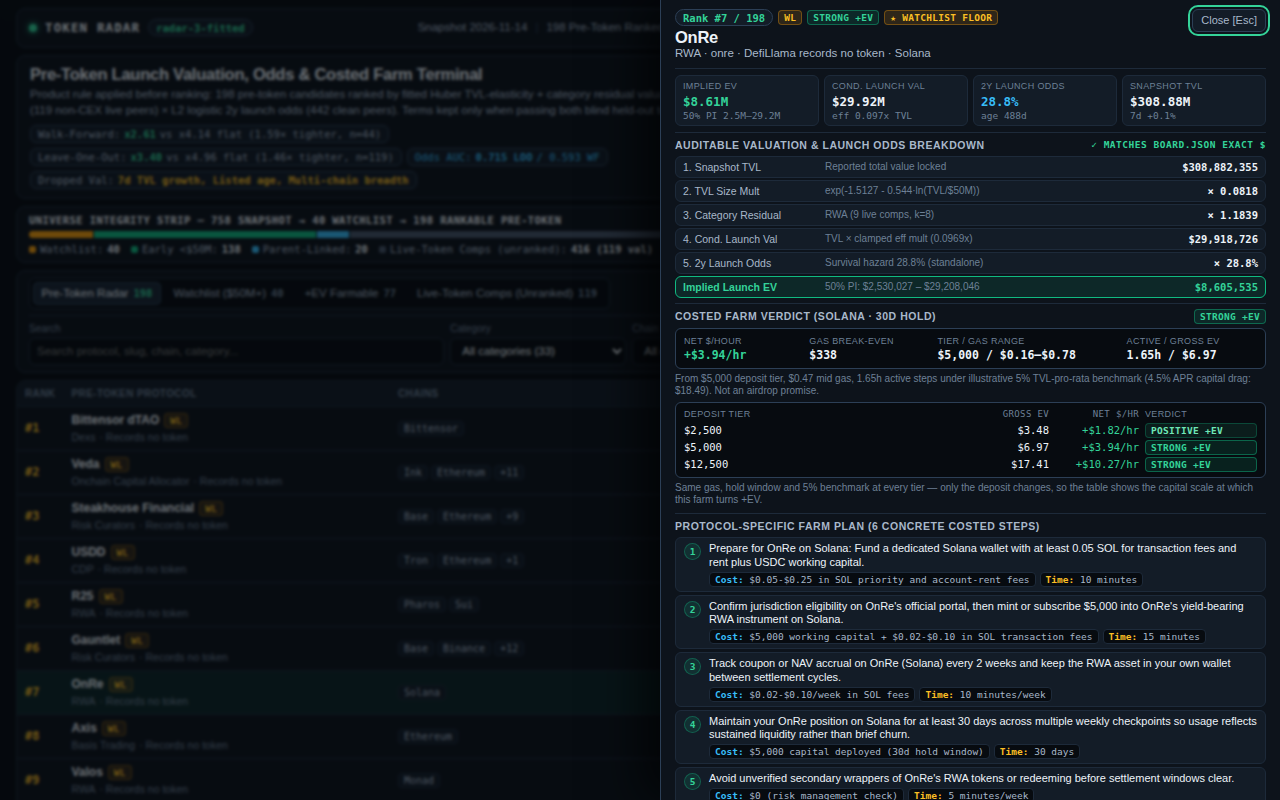
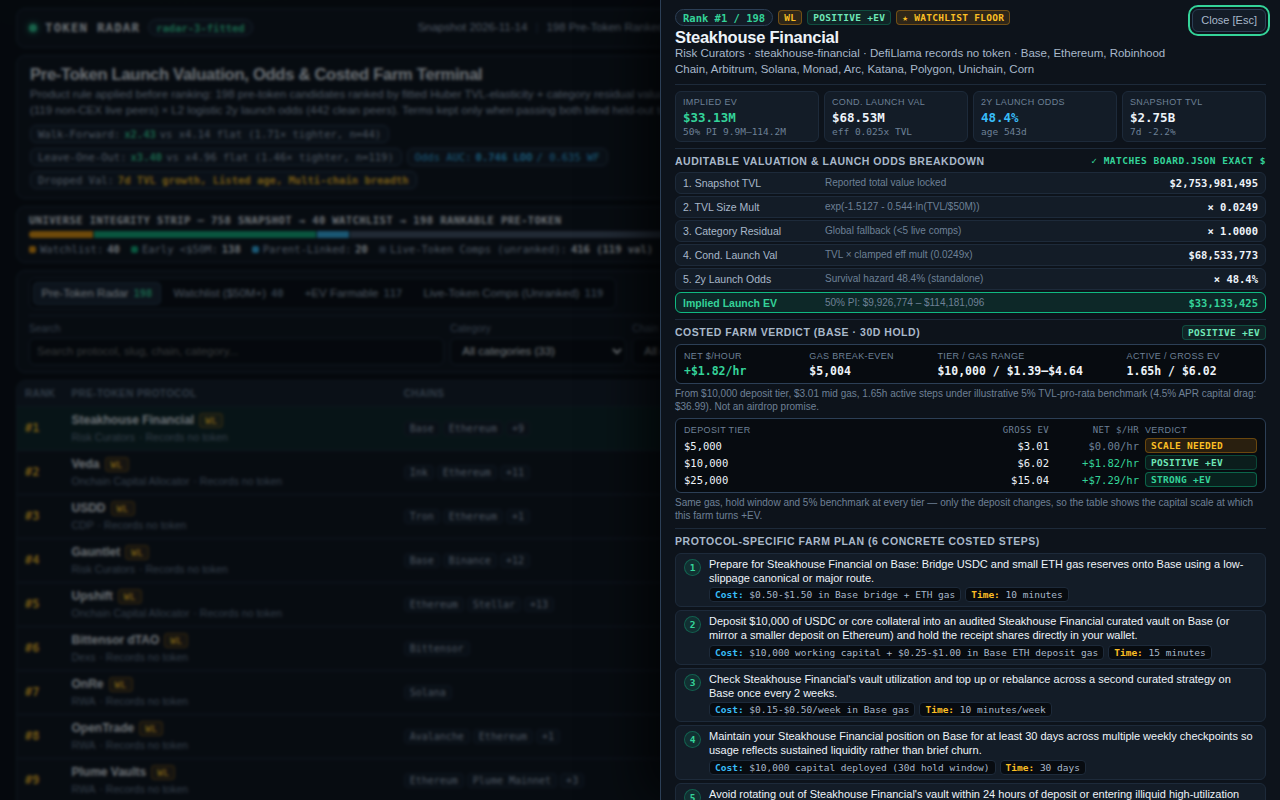
feat(dashboard): parity + re-rendered screenshots after A+B+C (final validation)

diff --git a/dashboard/app.js b/dashboard/app.js
@@ -26,7 +26,7 @@
   const fPct = (n) => (n == null || !isFinite(n) ? 'n/a' : `${n > 0 ? '+' : ''}${n.toFixed(1)}%`);
   const fPr = (p) => (p == null || !isFinite(p) ? 'n/a' : `${(p * 100).toFixed(1)}%`);
   const fAge = (d) => (d == null ? 'unlisted' : d >= 365 ? `${(d / 365).toFixed(1)}y` : `${Math.max(0, Math.round(d))}d`);
-  const fHr = (n) => `${n >= 0 ? '+' : '-'}$${Math.abs(n).toFixed(2)}/hr`;
+  const fHr = (n) => `${n > 0 ? '+' : n < 0 ? '-' : ''}$${Math.abs(n).toFixed(2)}/hr`;
   const fmtExp = () => `exp(${FIT.val_intercept} ${FIT.val_tvl_slope < 0 ? '-' : '+'} ${Math.abs(FIT.val_tvl_slope)}·ln(TVL/$50M))`;
 
   const dirty = () => Math.abs(S.sbTvl - FIT.val_tvl_slope) > 1e-4 || Math.abs(S.sbCat - 1) > 1e-4 || Math.abs(S.sbHor - FIT.horizon_days) > 1 || Math.abs(S.sbPar - FIT.parent_tokenless_prob) > 1e-4;
@@ -173,7 +173,7 @@
         kpi('Ranked Board', `${INT.rankable_total} rows`, 'em', `${INT.watchlist} WL + ${INT.early_below_floor} early + ${INT.parent_above_floor} sub`),
         kpi('Walk-Forward', `x${HO.val_wf_med_x.toFixed(2)}`, 'em', `${HO.val_wf_lift.toFixed(2)}× lift · R² +${HO.val_wf_r2.toFixed(3)}`),
         kpi('Leave-One-Out', `x${HO.val_loo_med_x.toFixed(2)}`, 'cy', `${HO.val_loo_lift.toFixed(2)}× lift · R² +${HO.val_loo_r2.toFixed(3)}`),
-        kpi('Rank #1 EV', top ? fUsd(top.implied_value_usd) : 'n/a', 'em', top ? `${top.name} (${fPr(top.launch_odds)} odds)` : ''),
+        kpi('Rank #1 EV', top ? fUsd(top.implied_value_usd) : 'n/a', 'em', top ? `${top.name} · ${fPr(top.launch_odds)}` : ''),
         kpi('Farm +EV Rows', `${strong + pos} / ${INT.rankable_total}`, '', `${strong} Strong · ${pos} Positive`),
       ),
     );
@@ -293,7 +293,7 @@
         E('td', null, E('div', { class: 'proto-cell' }, E('div', { class: 'proto-top' }, E('span', { class: 'proto-name', text: r.name }), cBadge(r)), E('div', { class: 'proto-sub' }, E('span', { text: r.category || 'Other' }), E('span', { text: '· Records no token' })))),
         chCell, E('td', { class: 'num', text: fUsd(r.tvl_usd) }), E('td', { class: `num ${gCls}`, text: fPct(r.change_7d) }),
         E('td', { class: 'num', text: fPr(r.launch_odds) }),
-        E('td', null, E('div', { class: 'farm-cell' }, E('span', { class: `farm-rate ${f.net_per_hour > 0 ? 'pos' : 'neg'}`, text: fHr(f.net_per_hour) }), vBadge(f.verdict))),
+        E('td', null, E('div', { class: 'farm-cell' }, E('span', { class: `farm-rate ${f.net_per_hour > 0 ? 'pos' : f.net_per_hour < 0 ? 'neg' : 'flat'}`, text: fHr(f.net_per_hour) }), vBadge(f.verdict))),
         E('td', null, E('div', { class: 'val-cell' }, E('div', { class: 'val-top' }, E('div', { class: 'val-bar', 'aria-hidden': 'true' }, E('i', { style: `width:${pct}%` })), E('span', { class: 'val-num', text: fUsd(r.implied_value_usd) })), E('span', { class: 'val-range', text: `50% PI $${fSh(r.range_low_usd)}–$${fSh(r.range_high_usd)}` }))),
       );
     }));
@@ -389,7 +389,7 @@
       E('section', { class: 'drawer-sec' },
         E('h3', null, E('span', { text: `Costed Farm Verdict (${f.primary_chain} · ${f.hold_days}d Hold)` }), vBadge(f.verdict)),
         E('div', { class: 'verdict-box' },
-          E('div', { class: 'vb-cell' }, E('span', { text: 'Net $/Hour' }), E('b', { class: f.net_per_hour > 0 ? 'pos' : 'neg', text: fHr(f.net_per_hour) })),
+          E('div', { class: 'vb-cell' }, E('span', { text: 'Net $/Hour' }), E('b', { class: f.net_per_hour > 0 ? 'pos' : f.net_per_hour < 0 ? 'neg' : 'flat', text: fHr(f.net_per_hour) })),
           E('div', { class: 'vb-cell' }, E('span', { text: 'Gas Break-Even' }), E('b', { text: fEx(f.breakeven_deposit_usd) })),
           E('div', { class: 'vb-cell' }, E('span', { text: 'Tier / Gas Range' }), E('b', { text: `$${f.deposit_usd.toLocaleString('en-US')} / $${f.gas_low_usd.toFixed(2)}–$${f.gas_high_usd.toFixed(2)}` })),
           E('div', { class: 'vb-cell' }, E('span', { text: 'Active / Gross EV' }), E('b', { text: `${f.active_hours.toFixed(2)}h / $${f.gross_ev_usd.toFixed(2)}` })),
@@ -397,7 +397,7 @@
         E('p', { class: 'verdict-note', text: `From $${f.deposit_usd.toLocaleString('en-US')} deposit tier, $${f.gas_mid_usd.toFixed(2)} mid gas, ${f.active_hours.toFixed(2)}h active steps under illustrative 5% TVL-pro-rata benchmark (4.5% APR capital drag: $${f.capital_drag_usd.toFixed(2)}). Not an airdrop promise.` }),
         E('div', { class: 'tier-table' },
           E('div', { class: 'tier-head' }, E('span', { text: 'Deposit tier' }), E('span', { class: 'num', text: 'Gross EV' }), E('span', { class: 'num', text: 'Net $/hr' }), E('span', { text: 'Verdict' })),
-          (f.tiers || []).map((t) => E('div', { class: 'tier-row' }, E('span', { text: `$${t.deposit_usd.toLocaleString('en-US')}` }), E('span', { class: 'num', text: `$${t.gross_ev_usd.toFixed(2)}` }), E('span', { class: `num ${t.net_per_hour > 0 ? 'pos' : 'neg'}`, text: fHr(t.net_per_hour) }), vBadge(t.verdict))),
+          (f.tiers || []).map((t) => E('div', { class: 'tier-row' }, E('span', { text: `$${t.deposit_usd.toLocaleString('en-US')}` }), E('span', { class: 'num', text: `$${t.gross_ev_usd.toFixed(2)}` }), E('span', { class: `num ${t.net_per_hour > 0 ? 'pos' : t.net_per_hour < 0 ? 'neg' : 'flat'}`, text: fHr(t.net_per_hour) }), vBadge(t.verdict))),
         ),
         E('p', { class: 'verdict-note', text: 'Same gas, hold window and 5% benchmark at every tier — only the deposit changes, so the table shows the capital scale at which this farm turns +EV.' }),
       ),

diff --git a/STATE.md b/STATE.md
@@ -187,3 +187,30 @@ Tally vs hypothetical top-10 composites: **3 wins / 2 losses** (game scores ~0.3
   - Parity (`dashboard/0-model.js` vs `board.json`/`data.js`): `0` value diffs, `0` breakdown diffs, `0` farm-verdict diffs across all 198 rows, `0` tier diffs across all 594 tier cells, `0` step diffs.
   - Artifacts & determinism: `data.js` `594,247 B`, `dashboard/` `60,721 B` (`<64 KiB`, `0` `http(s)://`), `dossier.json` `1,157,179 B` (`61,062 B` text, `3` images, exact `buildDossier` byte match); 2-run `diff -r` byte-identical PASS.
 - Slice 4 (dashboard parity + screenshot re-render + final validation) pending; not pushed.
+
+## Session 8 (Finisher Slice 4 — Dashboard Parity, Re-Rendered 1280×800 Screenshots & Final Validation, 2026-11-26)
+- **Dashboard parity audit & fixes:**
+  - Audited all 4 files in `dashboard/` (`0-model.js`, `app.js`, `app.css`, `index.html`): `0` remaining stale hardcoded numbers from the old model (`2.61`, `1.59`, `0.715`, `0.593`, `0.2294`, `0.2113`, `0.29`, `3.39`, `n>=3`, `k=8` valuation, `$50,000`/`50k` gas rule, `log1p`), `0` `http(s)://` references. `odds_cat_k: 16`, valuation `n>=5, k=12`, and dropped 7d growth untouched.
+  - Applied two display-parity fixes in `dashboard/app.js`: (1) zero-valued `net_per_hour` (e.g., `#1 steakhouse-financial` `$5,000` deposit tier at `$0.00/hr`) formats as neutral `$0.00/hr` (`flat`) instead of red `+$0.00/hr`; (2) Rank #1 EV KPI subtitle shortened to `${name} · ${odds}` so `Steakhouse Financial · 48.4%` renders with zero ellipsis truncation.
+  - Verified exact parity across all `198` rows (`594` tier cells) between `board.json`, `data.js`, and `dashboard/0-model.js`: `0` value diffs, `0` breakdown diffs, `0` farm-verdict diffs, `0` tier diffs, `0` step diffs.
+- **Re-rendered `1280×800` screenshots (headless Chromium `chromium-1255` from live built output; all 3 visually inspected — zero overlap/clipping, byte-equal numbers to `board.json`/`data.js`):**
+  - `screenshots/1-board.png`: `1280×800`, `239,473 B` (`233.9 KiB`) — Cover + Held-Out strip (`WF x2.43` / `1.71×`, `LOO x3.40` / `1.46×`, `Odds AUC 0.746 LOO / 0.635 WF`) + KPI cards (`Rank #1 EV $33.13M Steakhouse Financial · 48.4%`, `Farm +EV Rows 117 / 198: 59 Strong · 58 Positive`) + 758-protocol Integrity Strip + Top 9 ranked rows.
+  - `screenshots/2-detail.png`: `1280×800`, `346,477 B` (`338.4 KiB`) — New `#1 Steakhouse Financial` (`WL`, `Positive +EV`, `$33,133,425`, `✓ Matches board.json exact $`, `Global fallback (<5 live comps)`, `48.4%` 2y odds, full 3-tier progression `$5,000 Scale Needed` / `$10,000 Positive +EV` / `$25,000 Strong +EV`, 6 costed steps).
+  - `screenshots/3-filtered.png`: `1280×800`, `246,028 B` (`240.3 KiB`) — Filtered view (`Category: Lending (16)`, `Min TVL >= $50M Floor`, `★ Watchlist Only`, `Sort: Net $/hr` → 2 rows `#27 Tydro` `Strong +EV +$3.28/hr` & `#22 Curvance` `Positive +EV +$1.74/hr`) + full Held-Out Term Selection table (`CatRes(n>=5,k=12)`) + all 8 `n >= 5` Empirical Category Residuals bars with zero clipping.
+- **Final Model & Board Summary (post A+B+C, `radar-3-fitted`, snapshot `2026-11-14`):**
+  - Held-out (`scripts/heldout.mjs`, **`10/10` PASS**): Valuation WF **`x2.43`** vs `x4.14` flat (`1.71×` tighter, gmX `x4.78`, R² `+0.059`), LOO **`x3.40`** vs `x4.96` flat (`1.46×` tighter, gmX `x4.69`, R² `+0.126`), 50% PI `[x0.30, x3.45]`; Odds WF **AUC `0.635`** (Brier `0.2086`), LOO **AUC `0.746`** (Brier `0.2016`); 7d growth DROPPED on both.
+  - New Top 5 (+ `#6`): `#1 steakhouse-financial` **`$33,133,425`**, `#2 veda` **`$32,059,842`**, `#3 usdd` **`$26,954,070`**, `#4 gauntlet` **`$24,968,803`**, `#5 upshift` **`$18,717,530`**, `#6 bittensor-dtao` **`$16,485,109`**.
+  - Farm verdicts (10× deposit Gas-Blocked rule): base tier (`198` rows) `59 Strong +EV` / `58 Positive +EV` / `72 Scale Needed` / `9 Gas-Blocked`; deposit tiers (`594` cells) `189 Strong +EV` / `164 Positive +EV` / `215 Scale Needed` / `26 Gas-Blocked`.
+- **Final Validation Results (Node `v24.22.1`, Kit Level `53`):**
+  - `dashboard_files`: **PASS** — 4 files (`0-model.js` `7,895 B`, `app.css` `15,588 B`, `app.js` `36,820 B`, `index.html` `516 B`), total **`60,819 B`** (`< 64 KiB`), `0` `http(s)://`.
+  - `board_file`: **PASS** — `198` unique rows, `198` distinct whole-dollar implied values, `425,028 B` (`415.1 KiB`, ≤8 MiB).
+  - `sorted_by_value`: **PASS** — consecutive ranks `1..198`, strictly non-increasing (`$33,133,425` `#1 steakhouse-financial` down to `$335,651` `#198 monarq`).
+  - `coverage`: **PASS** — `40/40` watchlist (`100%`), `0` product-rule violations, `0` unaccounted of `758`.
+  - `farm_steps`: **PASS** — `6` steps/row across all 198 rows, `141..413` trimmed chars (`20..600`), `0` occurrences of `has/have/had no token`.
+  - `screenshots`: **PASS** — 3 valid `1280×800` PNGs: `233.9 KiB`, `338.4 KiB`, `240.3 KiB` (all ≤512 KiB).
+  - `dossier_matches`: **PASS** — byte-identical to `buildDossier('/output', {text_max_bytes: 65536})`, **`1,171,669 B`** (`1,144.2 KiB / 1,536 KiB`), `text = 61,160 / 65,536 B` (`0` truncated), `firstSource = 0-model.js`, `images = 3`.
+  - `determinism`: **PASS** — 2 fresh runs byte-identical (`diff -r`, `~1.8–1.9s`); `data.js` `594,247 B`; `vendor/makefun-board.ts` matches kit starter (`sha256 9ca51b6e5cd84fe4…`).
+  - `clean_clone`: **PASS** — verified from committed Slice 4 HEAD in `/tmp/radar-s4-clean-clone` (2 runs byte-identical and byte-equal to workspace build).
+  - `kit check` (no `--transcripts`): `4 passed, 1 failed, 15 skipped, 5 checked at submission` (fails only `transcripts_present`).
+  - `kit check` (with `--transcripts` temporary `/tmp` bundle of the 9 real Antigravity sessions from `akun1` + `akun2`): **`14 passed, 0 failed, 6 skipped, 5 checked at submission`** (`ok: every check run here passes; the rest are the site's at submission`).
+- Note: `README.md` still reflects pre-A+B+C summary numbers (left untouched per Slice 4 scope). NOT pushed and NOT submitted.
